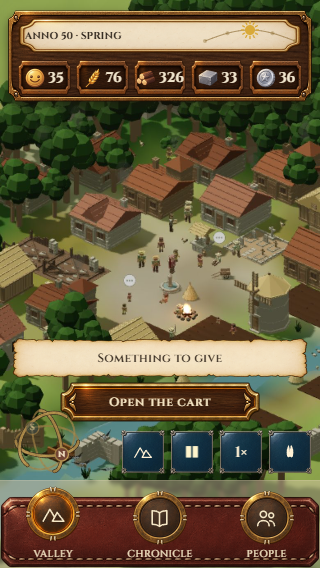
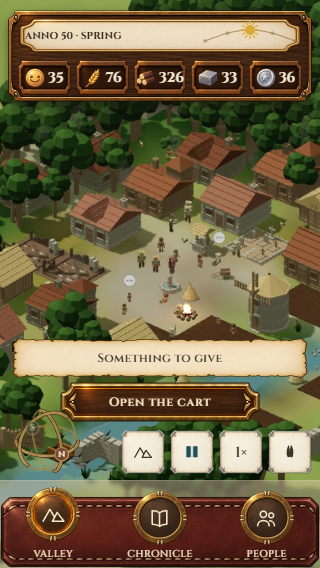
docs(ui): select ivory controls in V9 review

Changed region(s): [[0.375, 0.7482, 0.9688, 0.838]]

diff --git a/docs/ui-redesign/revision-v9-2026-09-29/opciones.html b/docs/ui-redesign/revision-v9-2026-09-29/opciones.html
@@ -1,1 +1,1 @@
-<!doctype html><html lang="es"><meta charset="utf-8"><title>V9 · Acabados pendientes de elección</title><style>body{margin:0;padding:20px;background:#e8ddc5;color:#302b26;font:16px Georgia}h1{font-size:24px;margin:0 0 8px}p{margin:0 0 16px}main{display:flex;gap:16px}figure{margin:0;width:390px}h2{font-size:21px;margin:8px 0}img{display:block;width:390px;height:236px}a{color:inherit}</style><h1>Tres acabados para los mandos del valle</h1><p>Todos conservados · elección pendiente de Vera · la navegación mantiene sus medallones de latón</p><main><figure><h2>A · Marfil</h2><p>Claro, con canto de plata.</p><a href="index.html?scene=valley&controls=ivory"><img src="capturas/opcion-ivory.png" alt="A · Marfil"></a></figure><figure><h2>B · Pizarra azul</h2><p>Recomendada: enlaza con las cintas.</p><a href="index.html?scene=valley&controls=slate"><img src="capturas/opcion-slate.png" alt="B · Pizarra azul"></a></figure><figure><h2>C · Hierro</h2><p>Sobrio, mate y más severo.</p><a href="index.html?scene=valley&controls=iron"><img src="capturas/opcion-iron.png" alt="C · Hierro"></a></figure></main><p style="margin-top:16px">GIVE, SEND y OPEN THE CART conservan su acabado hasta confirmar el alcance del cambio.</p></html>
+<!doctype html><html lang="es"><meta charset="utf-8"><title>V9 · Acabados conservados</title><style>body{margin:0;padding:20px;background:#e8ddc5;color:#302b26;font:16px Georgia}h1{font-size:24px;margin:0 0 8px}p{margin:0 0 16px}main{display:flex;gap:16px}figure{margin:0;width:390px}h2{font-size:21px;margin:8px 0}img{display:block;width:390px;height:236px}a{color:inherit}</style><h1>Tres acabados para los mandos del valle</h1><p>Marfil elegido por Vera · todas las variantes conservadas · la navegación mantiene sus medallones de latón</p><main><figure><h2>A · Marfil</h2><p>Elegida por Vera: clara, con canto de plata.</p><a href="index.html?scene=valley&controls=ivory"><img src="capturas/opcion-ivory.png" alt="A · Marfil"></a></figure><figure><h2>B · Pizarra azul</h2><p>Alternativa conservada.</p><a href="index.html?scene=valley&controls=slate"><img src="capturas/opcion-slate.png" alt="B · Pizarra azul"></a></figure><figure><h2>C · Hierro</h2><p>Alternativa conservada.</p><a href="index.html?scene=valley&controls=iron"><img src="capturas/opcion-iron.png" alt="C · Hierro"></a></figure></main><p style="margin-top:16px">GIVE, SEND y OPEN THE CART conservan su acabado hasta confirmar el alcance del cambio.</p></html>

diff --git a/docs/ui-redesign/revision-v9-2026-09-29/controls.js b/docs/ui-redesign/revision-v9-2026-09-29/controls.js
@@ -1,8 +1,8 @@
-/* Variantes para revisión de Vera, no seleccionadas ni integradas. */
+/* Vera eligió marfil; las otras variantes se conservan para futuras revisiones. */
 (() => {
   const variants=['ivory','slate','iron'];
   const requested=new URLSearchParams(location.search).get('controls');
-  const variant=variants.includes(requested)?requested:'slate';
+  const variant=variants.includes(requested)?requested:'ivory';
   const url=new URL(`assets/control-${variant}.png`,document.currentScript.src).href;
   const ink=variant==='ivory'?'#3e3428':'#fff1d5';
   document.body.dataset.controlProposal=variant;

diff --git a/docs/ui-redesign/revision-v9-2026-09-29/README.md b/docs/ui-redesign/revision-v9-2026-09-29/README.md
@@ -8,7 +8,7 @@ La fuente anterior y sus capturas permanecen en `../texturas-v9-2026-09-29/`.
 1. **Brújula:** esfera hueca de tres anillas, N y S, material de latón generado con ImageGen. Reutiliza la proyección de `src/ui/camera-controls.ts`. Se puede arrastrar, girar 360° con flechas y orientar al norte con Home o toque. En la maqueta gira la esfera: todavía no está conectada a la cámara del juego.
 2. **Crónica:** se elimina el canto duplicado que invadía la cabecera.
 3. **Carro:** mismo ajuste; título con espacio propio y cierre separado, área de toque de 44 px, cabecera de al menos 60 px y 24 px arriba.
-4. **Mandos diferenciados:** [tres opciones](opciones.html), todas pendientes de elección. A: marfil; B: pizarra azul (recomendación); C: hierro mate. B aparece provisionalmente en las seis capturas. No hay acabado aprobado. Pendiente confirmar si Vera quiere extender el cambio a GIVE, SEND y OPEN THE CART; por ahora conservan su acabado anterior. Los nuevos mandos son demostraciones visuales, no ejecutan acciones del juego.
+4. **Mandos diferenciados:** Vera eligió **A: marfil** para la fila de vista, pausa, velocidad y caza. [Comparativa de tres opciones](opciones.html): B, pizarra azul, y C, hierro mate, quedan conservadas. Las seis capturas muestran marfil. Pendiente confirmar si Vera quiere extender el cambio a GIVE, SEND y OPEN THE CART; por ahora conservan su acabado anterior. Los nuevos mandos son demostraciones visuales, no ejecutan acciones del juego.
 5. **Navegación prioritaria:** franja translúcida limitada a la zona del menú, incluyendo el medallón elevado y 6 px de margen. Menú nítido encima. Los botones parcialmente tapados quedan `inert` (toque y teclado); al desplazarlos fuera recuperan su uso. La franja intercepta toques al fondo.
 
 ## Conservar para futuras versiones
@@ -17,8 +17,8 @@ Vera, 29 sep: «Ve guardando todo esto […] decida una u otra porque en el futu
 
 | Material | Archivo | Estado |
 |---|---|---|
-| Marfil | `assets/control-ivory.png` | Alternativa conservada |
-| Pizarra azul | `assets/control-slate.png` | Provisional para revisar, no aprobada |
+| Marfil | `assets/control-ivory.png` | Elegida por Vera para la fila de mandos |
+| Pizarra azul | `assets/control-slate.png` | Alternativa conservada |
 | Hierro mate | `assets/control-iron.png` | Alternativa conservada |
 | Latón de anillas | `assets/ring-metal.png` | Propuesta de adaptación de brújula |
 
@@ -42,4 +42,4 @@ node docs/ui-redesign/revision-v9-2026-09-29/capture.mjs
 node docs/ui-redesign/revision-v9-2026-09-29/review.mjs
 ```
 
-Python requiere Pillow; Node usa Playwright con Edge sin ventana. Abrir `index.html?scene=valley&controls=slate` (también `ivory` o `iron`), `?scene=chronicle` o `?scene=cart`. `opciones.html` enlaza las tres variantes. La portada elegida y la idea día/noche aplazada no cambian en esta revisión.
+Python requiere Pillow; Node usa Playwright con Edge sin ventana. Abrir `index.html?scene=valley` para marfil (también `&controls=slate` o `&controls=iron`), `?scene=chronicle` o `?scene=cart`. `opciones.html` enlaza las tres variantes. La portada elegida y la idea día/noche aplazada no cambian en esta revisión.

diff --git a/.claude/skills/piel-del-valle/SKILL.md b/.claude/skills/piel-del-valle/SKILL.md
@@ -14,9 +14,9 @@ description: El estándar visual de la interfaz de The Valley: qué papel, qué 
 - Crónica y carro: un solo canto superior; reservar espacio real para título
   y cierre de 44 px. Ningún borde ornamental puede invadirlos.
 - Diferenciar los mandos de vista/pausa/velocidad/caza de los medallones de
-  navegación. Marfil, pizarra azul e hierro son alternativas pendientes de
-  elección; la recomendación azul no equivale a aprobación. Confirmar con
-  Vera si el cambio se extiende a GIVE, SEND y OPEN THE CART.
+  navegación. **Vera eligió marfil** para esa fila. Pizarra azul e hierro se
+  conservan como alternativas. Queda pendiente confirmar si el cambio se
+  extiende a GIVE, SEND y OPEN THE CART.
 - Bajo navegación y medallones: franja translúcida localizada; menú nítido
   y prioritario. Desactivar también por teclado los controles parcialmente
   ocultos y restaurarlos al salir de esa zona mediante scroll.

diff --git a/docs/task-log.md b/docs/task-log.md
@@ -3354,6 +3354,6 @@ y carro a 390×844 y 320×568; QA DOM de toque bloqueado, navegación activa y
 recuperación por scroll en `qa-point-5.json`. Brújula hueca con la proyección
 original, anillas con material ImageGen, N/S y giro por arrastre/teclado,
 comprobado en `qa-compass.json`; no conectada a la cámara real en esta maqueta.
-Tres acabados ImageGen para mandos (marfil, pizarra, hierro), pendientes de
-elección de Vera. Su petición de conservar todas las alternativas queda en
+Tres acabados ImageGen para mandos (marfil, pizarra, hierro); Vera eligió marfil
+para la fila de vista/pausa/velocidad/caza. Su petición de conservar todas las alternativas queda en
 README y skill `piel-del-valle`. No se ejecutaron pruebas del juego.
